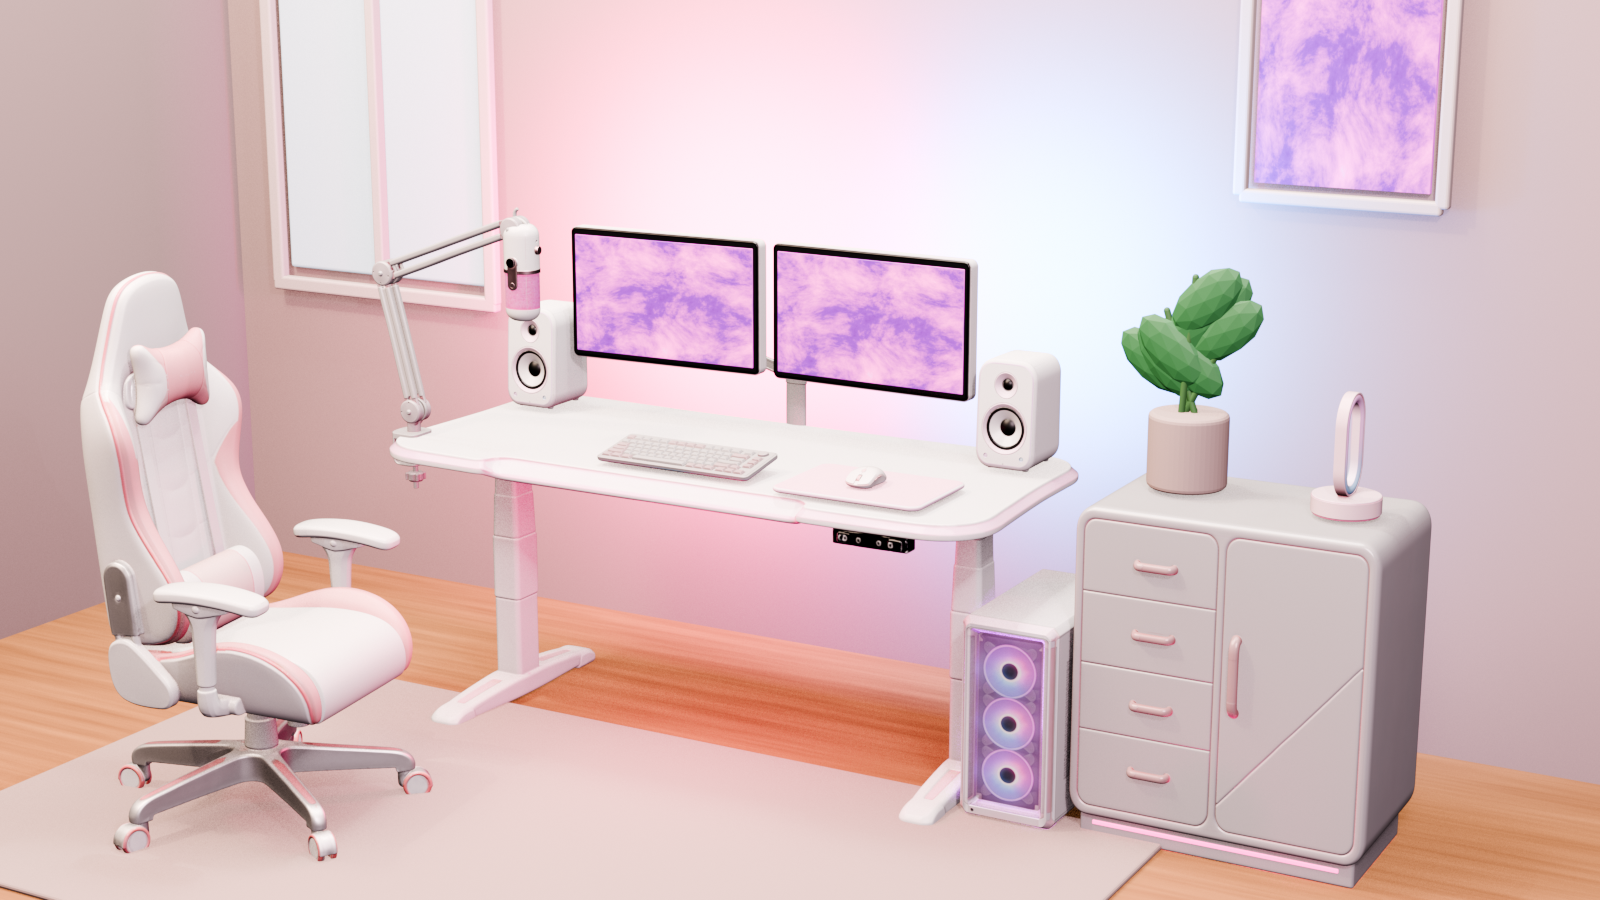
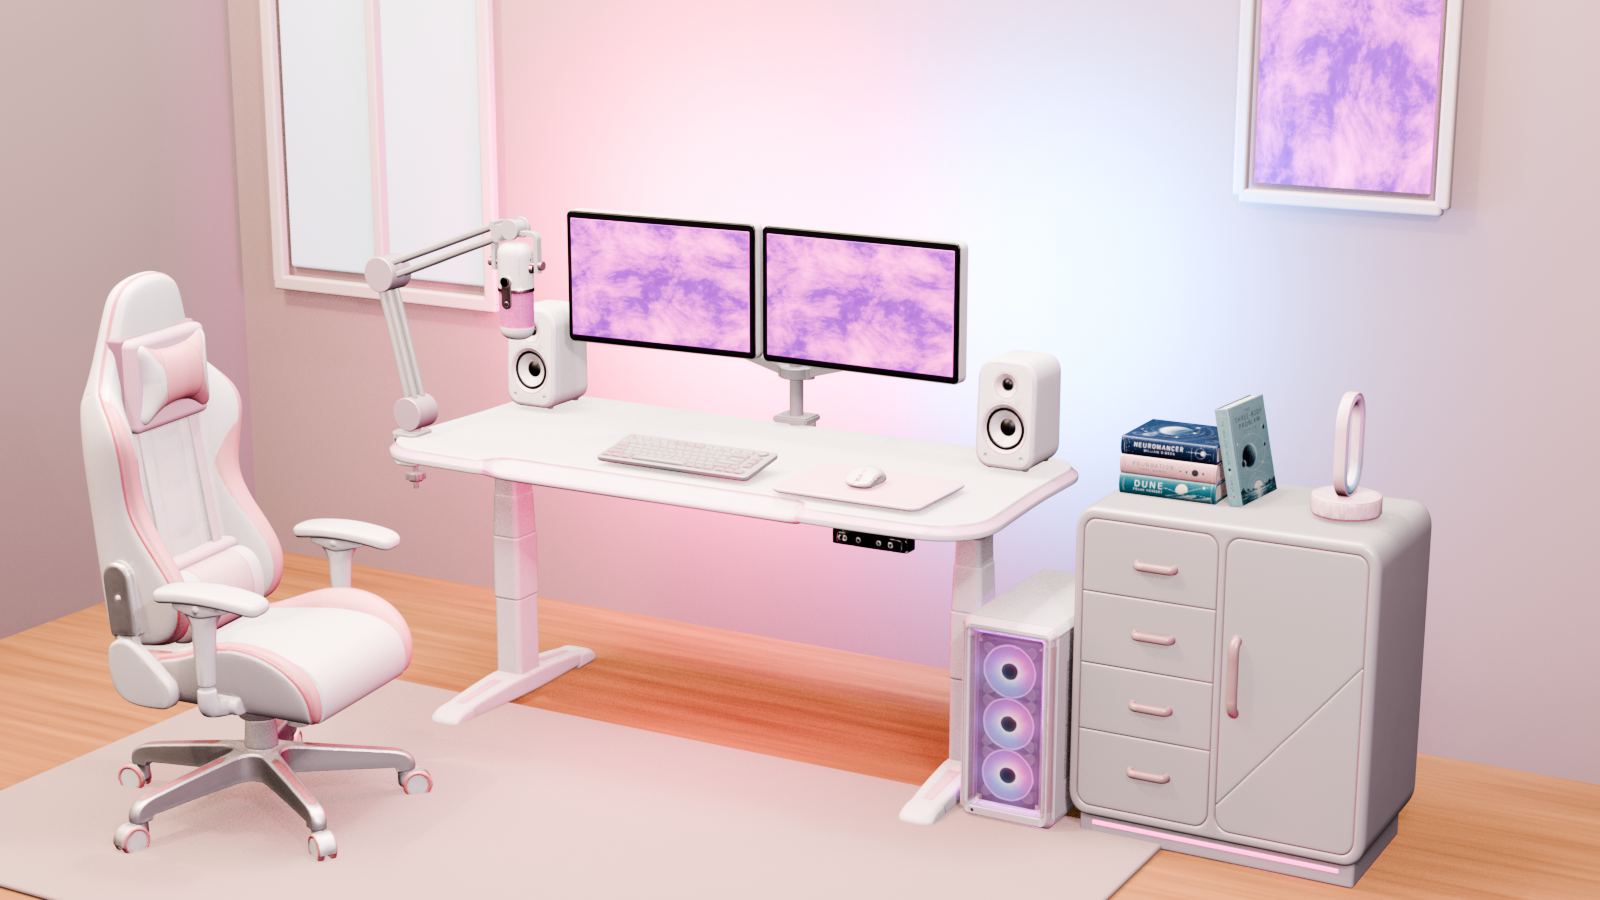
Refresh homepage poster from current book-stack room

diff --git a/components/gaming-room.tsx b/components/gaming-room.tsx
@@ -14,7 +14,7 @@ interface HoverState {
 
 const CONTROL_BY_ID = new Map(DEFAULT_CONTROLS.map((control) => [control.id, control]));
 
-export default function GamingRoom() {
+export default function GamingRoom({ posterUrl }: { posterUrl: string }) {
   const hostRef = useRef<HTMLDivElement>(null);
   const engineRef = useRef<RoomEngine | null>(null);
   const languageRef = useRef<RoomLanguage>(DEFAULT_LANGUAGE);
@@ -123,7 +123,7 @@ export default function GamingRoom() {
       <div ref={hostRef} className="canvas-host" />
 
       <div className="poster-layer" aria-hidden={entered}>
-        <div className="room-poster" />
+        <div className="room-poster" style={{ backgroundImage: `url("${posterUrl}")` }} />
         <div className="poster-wash" />
         <div className="poster-vignette" />
       </div>

diff --git a/app/page.tsx b/app/page.tsx
@@ -1,5 +1,7 @@
 import GamingRoom from '../components/gaming-room';
+import roomManifest from '../public/room/room-manifest.json';
 
 export default function Home() {
-  return <GamingRoom />;
+  const poster = (roomManifest as { poster?: { url: string } }).poster;
+  return <GamingRoom posterUrl={poster?.url ?? '/room-poster.png'} />;
 }

diff --git a/app/globals.css b/app/globals.css
@@ -78,7 +78,6 @@ button { -webkit-tap-highlight-color: transparent; }
 .room-poster {
   position: absolute;
   inset: -2%;
-  background-image: url('/room-poster.png');
   background-position: center;
   background-size: cover;
   filter: saturate(.92) contrast(.98);
